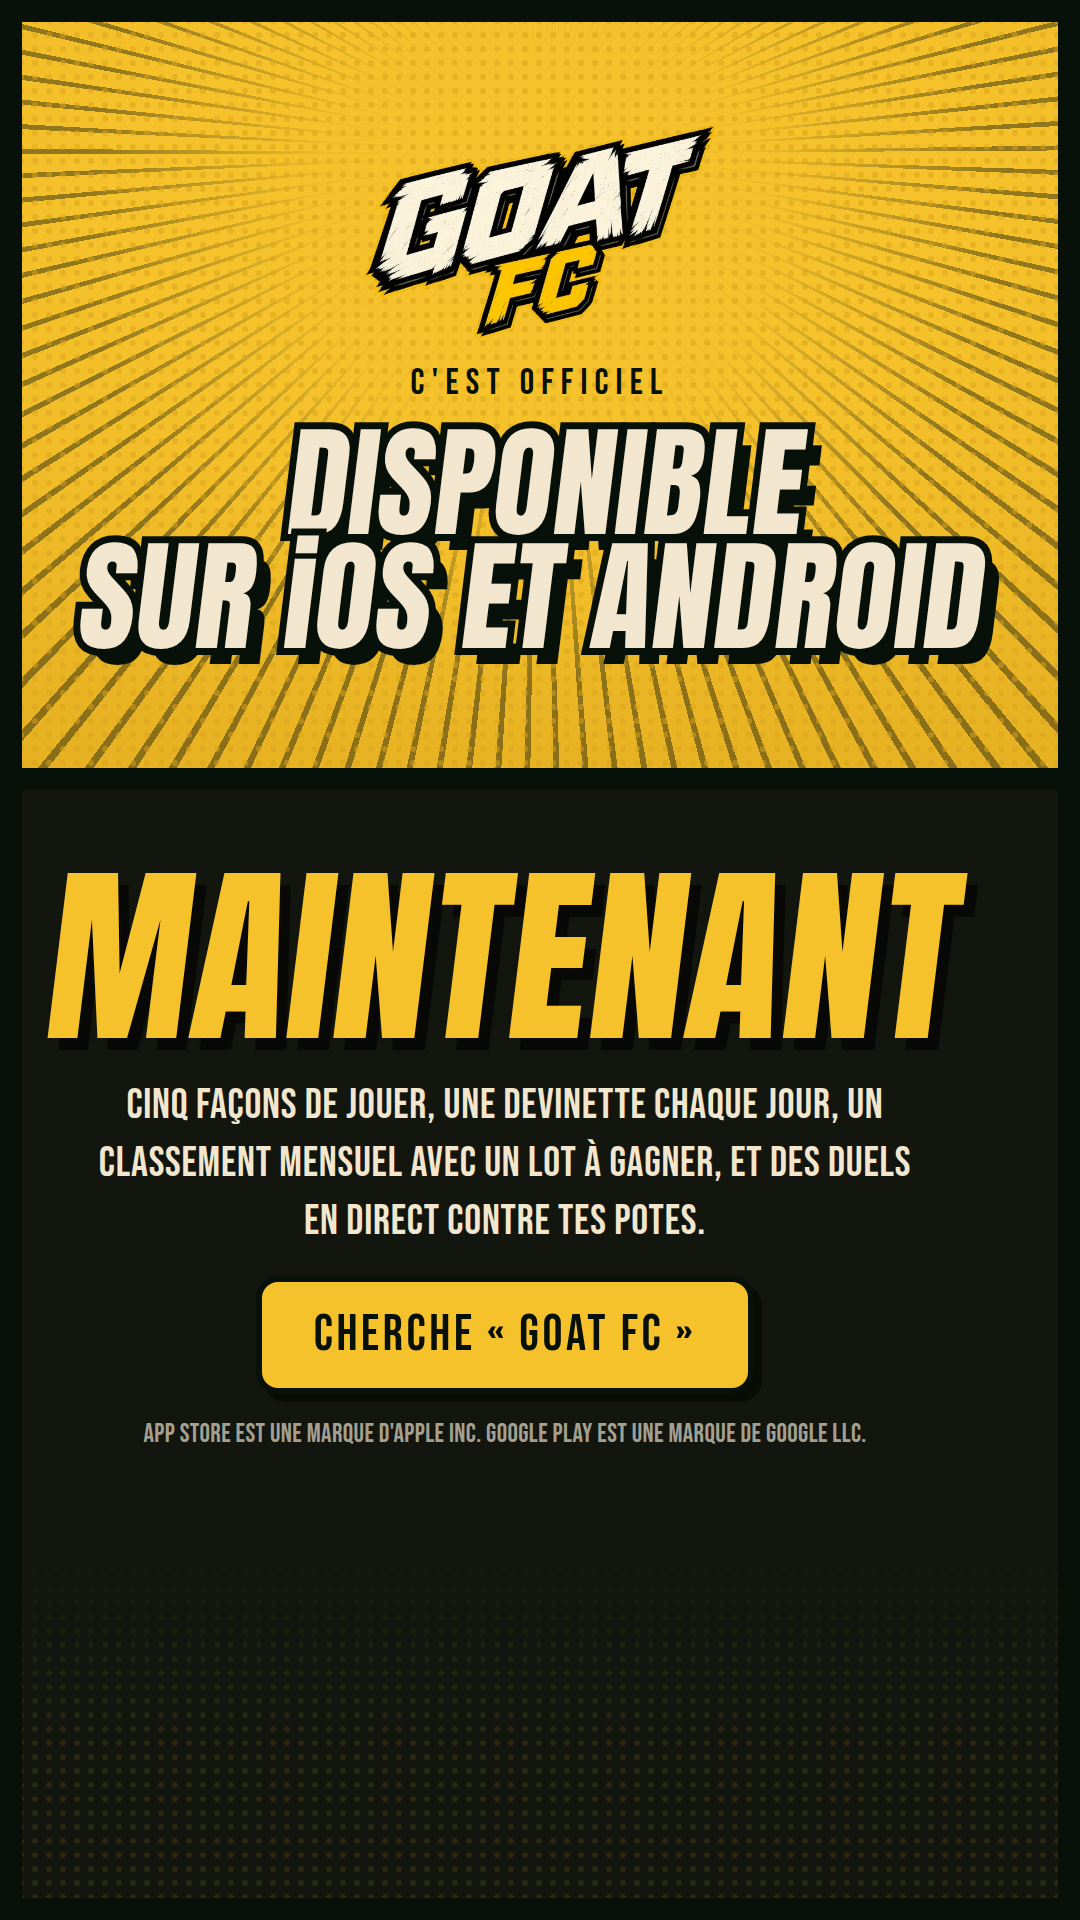
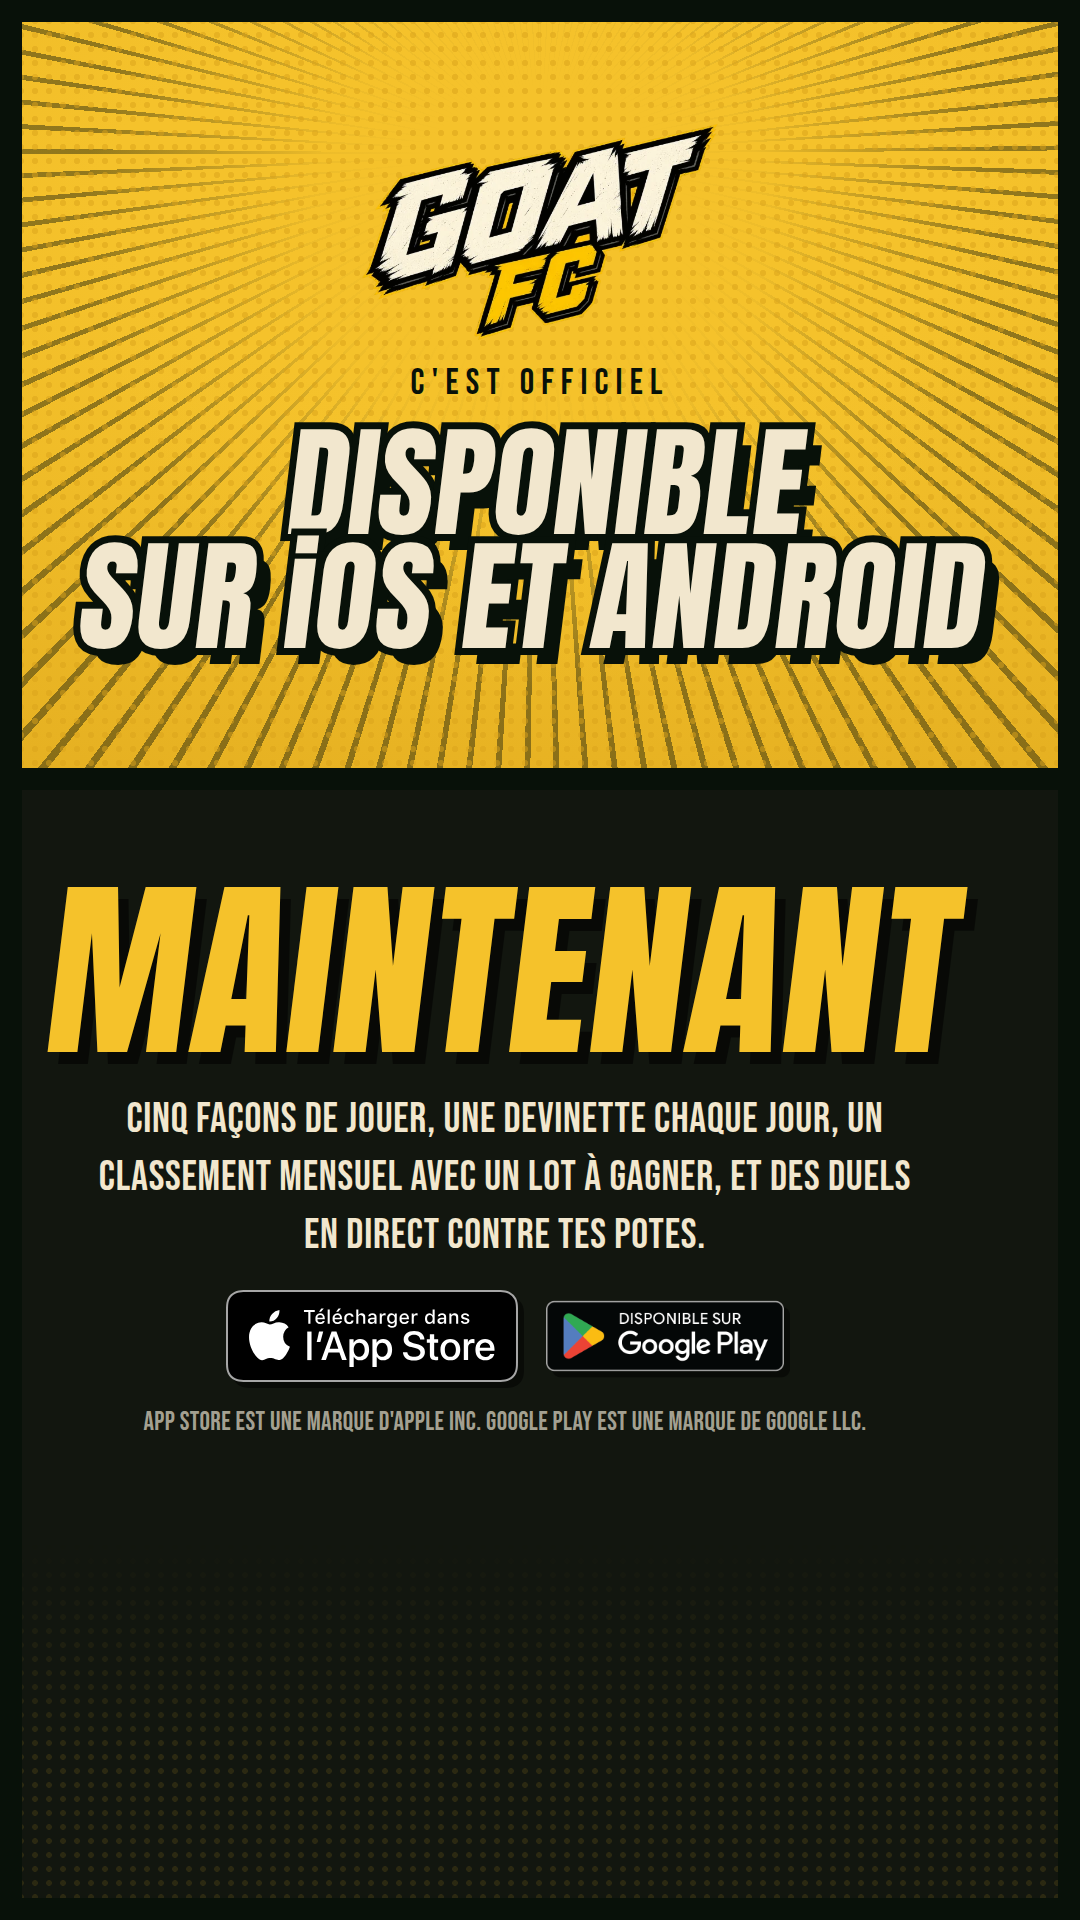
Visuel d'annonce : les vrais badges App Store / Google Play (#870)
Les deux fiches sont acceptées, donc le générateur peut enfin poser les
VRAIS badges plutôt que le bouton texte "Cherche « GOAT FC »" — jamais
redessinés à la main, téléchargés depuis les générateurs officiels
d'Apple (tools.applemediaservices.com) et Google (badges Play Store),
voir scripts/badges/LISEZ-MOI.md.

Nouveau champ `badges: true` sur une entrée ANNONCES, gardé optionnel :
les annonces existantes ("cadeau", "disponible" iOS seul) restent sur
leur bouton texte, seule "partout" (les deux stores) l'utilise.

Claude-Session: https://claude.ai/code/session_01YSo8XDmxycK9wDhijtGzLo

Changed region(s): [[0.0306, 0.4375, 0.8861, 0.75], [0.825, 0.5312, 0.8556, 0.5625]]

diff --git a/scripts/badges/LISEZ-MOI.md b/scripts/badges/LISEZ-MOI.md
@@ -1,0 +1,23 @@
+# Badges officiels du générateur de visuels
+
+Deux fichiers, chacun téléchargé depuis l'outil OFFICIEL du store qu'il
+représente — jamais redessinés à la main, ce qui les rendrait à la fois faux
+et attaquables (voir l'en-tête de `scripts/visuels-annonce.mjs`).
+
+- **`app-store-fr.svg`** — badge « Télécharger dans l'App Store », noir,
+  français. Généré via l'API officielle d'Apple :
+  `https://tools.applemediaservices.com/api/badges/download-on-the-app-store/black/fr-fr`
+- **`google-play-fr.png`** — badge « Disponible sur Google Play », français.
+  Généré via le générateur officiel de Google :
+  `https://play.google.com/intl/en_us/badges/static/images/badges/fr_badge_web_generic.png`
+
+Posés ici, pas dans `public/` : ce sont des entrées du générateur de visuels
+(comme les polices de `scripts/polices/`), pas des assets servis par l'app.
+
+Ne JAMAIS recolorer, étirer hors de leurs proportions d'origine, ni recréer
+ces badges à la main — les deux plateformes imposent des règles d'usage
+précises (zone de respiration minimale, formulations, couleurs) et un badge
+non conforme est un motif de refus ou de retrait.
+
+À régénérer aux mêmes URL si Apple ou Google changent leur charte, plutôt que
+de patcher les fichiers directement.
